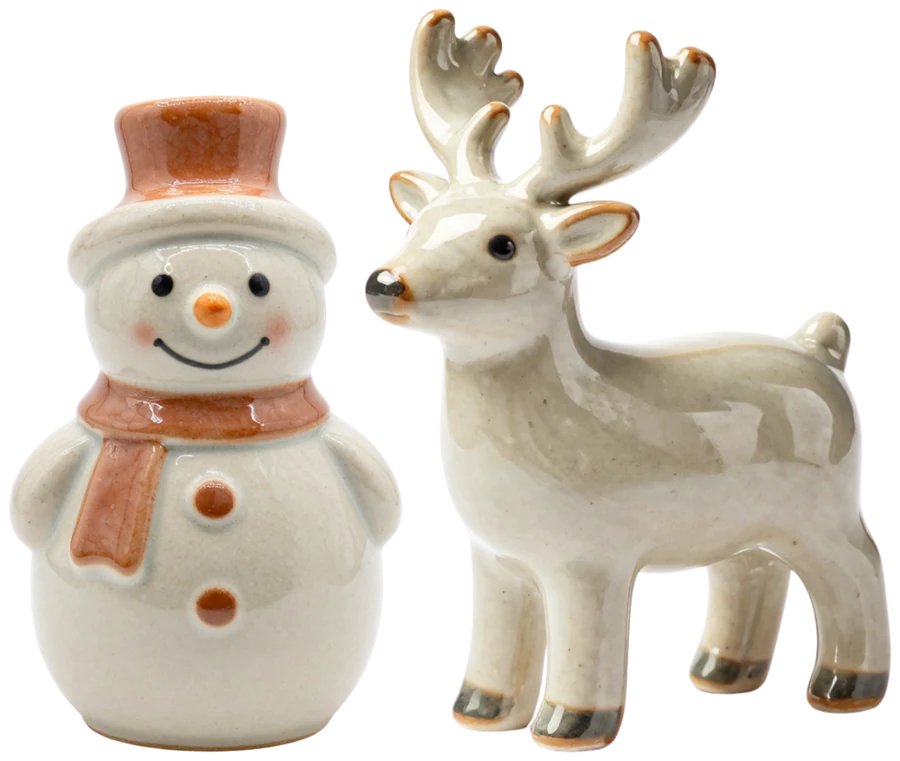
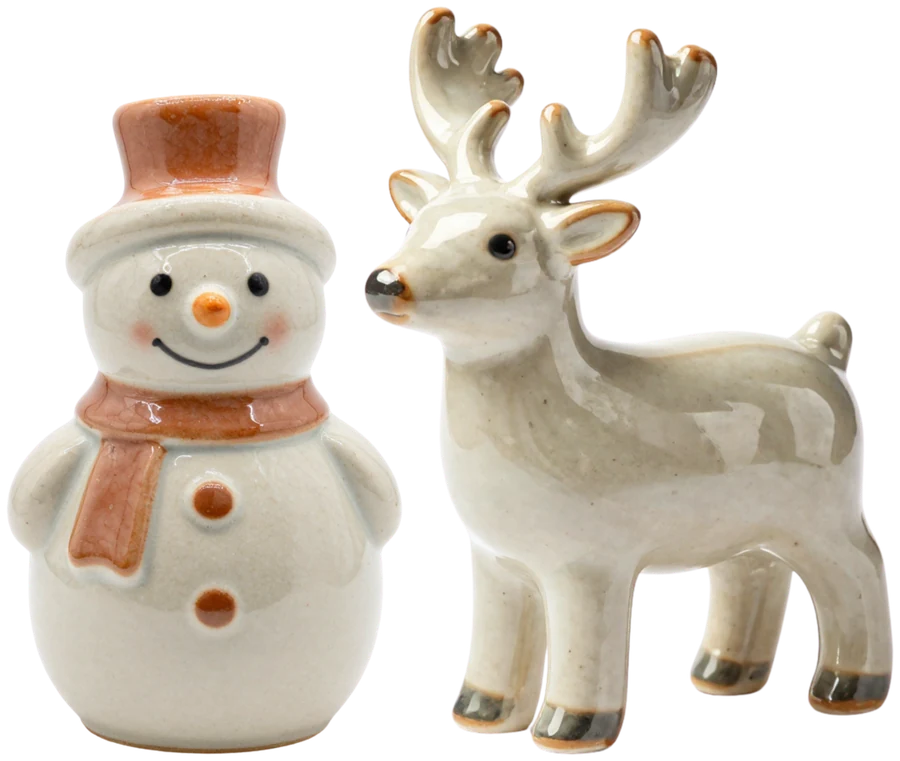
Tarjeta del taller unificada, negro translucido con borde dorado y nueva foto
Claude-Session: https://claude.ai/code/session_019ApYAaLMooJyqnQYuyETew

diff --git a/clases-de-ceramica-macul/index.html b/clases-de-ceramica-macul/index.html
@@ -528,16 +528,17 @@
     .foot-grid { grid-template-columns: 1fr; }
   }
   /* Próximo taller */
-  .event-card { display: grid; grid-template-columns: 5fr 6fr; background: #0F0C0A; color: var(--cream); border-radius: 6px; overflow: hidden; margin: 0 0 72px; box-shadow: 0 30px 60px -32px rgba(0,0,0,.75); }
-  .event-media { background: radial-gradient(circle at 12% 18%, rgba(255,255,255,.55) 0 1.5px, transparent 2.5px), radial-gradient(circle at 82% 12%, rgba(255,255,255,.4) 0 1px, transparent 2px), radial-gradient(circle at 70% 38%, rgba(255,255,255,.5) 0 1.5px, transparent 2.5px), radial-gradient(circle at 24% 62%, rgba(255,255,255,.35) 0 1px, transparent 2px), radial-gradient(circle at 90% 74%, rgba(255,255,255,.5) 0 1.5px, transparent 2.5px), radial-gradient(circle at 40% 90%, rgba(255,255,255,.4) 0 1px, transparent 2px), radial-gradient(circle at 8% 86%, rgba(255,255,255,.45) 0 1.5px, transparent 2.5px), radial-gradient(circle at 55% 8%, rgba(255,255,255,.35) 0 1px, transparent 2px), radial-gradient(ellipse 60% 55% at 50% 52%, rgba(255,244,226,.20) 0%, rgba(255,244,226,.05) 55%, transparent 80%), #15100D; display: flex; align-items: center; justify-content: center; padding: 34px; }
-  .event-media img { width: 100%; max-width: 400px; height: auto; display: block; filter: drop-shadow(0 20px 24px rgba(0,0,0,.6)); }
-  .event-body { padding: 46px 48px; display: flex; flex-direction: column; align-items: flex-start; background: radial-gradient(circle at 88% 18%, rgba(255,255,255,.55) 0 1.5px, transparent 2.5px), radial-gradient(circle at 82% 88%, rgba(255,255,255,.4) 0 1px, transparent 2px), radial-gradient(circle at 70% 38%, rgba(255,255,255,.5) 0 1.5px, transparent 2.5px), radial-gradient(circle at 60% 62%, rgba(255,255,255,.35) 0 1px, transparent 2px), radial-gradient(circle at 90% 74%, rgba(255,255,255,.5) 0 1.5px, transparent 2.5px), radial-gradient(circle at 40% 90%, rgba(255,255,255,.4) 0 1px, transparent 2px), radial-gradient(circle at 8% 86%, rgba(255,255,255,.45) 0 1.5px, transparent 2.5px), radial-gradient(circle at 55% 8%, rgba(255,255,255,.35) 0 1px, transparent 2px), #0F0C0A; }
-  .event-tag { display: inline-flex; align-items: center; gap: 8px; background: #9B2D20; color: #fff; font-size: .7rem; letter-spacing: .2em; text-transform: uppercase; padding: 7px 14px; border-radius: 2px; margin-bottom: 20px; }
-  .event-tag::before { content: '\2726'; color: #E9D3A0; font-size: .8rem; letter-spacing: 0; }
+  .event-card { display: grid; grid-template-columns: 5fr 6fr; align-items: center; position: relative; background: linear-gradient(135deg, rgba(14,11,9,.94), rgba(22,17,13,.90)); color: var(--cream); border-radius: 8px; margin: 0 0 72px; padding: 14px 0; border: 1px solid #B8924F; box-shadow: 0 0 0 5px rgba(184,146,79,.10), 0 30px 60px -32px rgba(0,0,0,.8); }
+  .event-card::before { content: ''; position: absolute; inset: 7px; border: 1px solid rgba(184,146,79,.35); border-radius: 4px; pointer-events: none; }
+  .event-media { display: flex; align-items: center; justify-content: center; padding: 28px 20px 28px 40px; }
+  .event-media img { width: 100%; max-width: 380px; height: auto; display: block; filter: drop-shadow(0 18px 20px rgba(0,0,0,.55)); }
+  .event-body { padding: 36px 52px 36px 20px; display: flex; flex-direction: column; align-items: flex-start; }
+  .event-tag { display: inline-flex; align-items: center; gap: 8px; color: #E3C58A; border: 1px solid rgba(184,146,79,.7); background: rgba(184,146,79,.08); font-size: .7rem; letter-spacing: .2em; text-transform: uppercase; padding: 7px 14px; border-radius: 2px; margin-bottom: 20px; }
+  .event-tag::before { content: '\2726'; font-size: .8rem; letter-spacing: 0; }
   .event-body h3 { font-size: clamp(1.5rem, 2.6vw, 2.1rem); margin: 0 0 12px; color: #fff; }
   .event-body p { margin: 0 0 20px; color: rgba(255,255,255,.72); }
-  .event-meta { list-style: none; padding: 0; margin: 0 0 26px; width: 100%; border-top: 1px solid rgba(255,255,255,.14); }
-  .event-meta li { display: flex; justify-content: space-between; gap: 16px; padding: 11px 0; border-bottom: 1px solid rgba(255,255,255,.14); font-size: .95rem; }
+  .event-meta { list-style: none; padding: 0; margin: 0 0 26px; width: 100%; border-top: 1px solid rgba(184,146,79,.3); }
+  .event-meta li { display: flex; justify-content: space-between; gap: 16px; padding: 11px 0; border-bottom: 1px solid rgba(184,146,79,.3); font-size: .95rem; }
   .event-meta span { color: rgba(255,255,255,.55); }
   .event-meta strong { font-weight: 500; text-align: right; color: #fff; }
   .event-meta .price { font-family: 'Fraunces', serif; font-size: 1.3rem; color: #E3C58A; }
@@ -547,9 +548,9 @@
   .hero-event:hover { color: var(--cream); }
   @media (max-width: 820px) {
     .event-card { grid-template-columns: 1fr; margin-bottom: 52px; }
-    .event-media { padding: 22px; }
+    .event-media { padding: 26px 24px 0; }
     .event-media img { max-width: 300px; }
-    .event-body { padding: 30px 24px 34px; }
+    .event-body { padding: 22px 26px 34px; }
   }
 </style>
 <style>

diff --git a/index.html b/index.html
@@ -536,16 +536,17 @@
     .foot-grid { grid-template-columns: 1fr; }
   }
   /* Próximo taller */
-  .event-card { display: grid; grid-template-columns: 5fr 6fr; background: #0F0C0A; color: var(--cream); border-radius: 6px; overflow: hidden; margin: 0 0 72px; box-shadow: 0 30px 60px -32px rgba(0,0,0,.75); }
-  .event-media { background: radial-gradient(circle at 12% 18%, rgba(255,255,255,.55) 0 1.5px, transparent 2.5px), radial-gradient(circle at 82% 12%, rgba(255,255,255,.4) 0 1px, transparent 2px), radial-gradient(circle at 70% 38%, rgba(255,255,255,.5) 0 1.5px, transparent 2.5px), radial-gradient(circle at 24% 62%, rgba(255,255,255,.35) 0 1px, transparent 2px), radial-gradient(circle at 90% 74%, rgba(255,255,255,.5) 0 1.5px, transparent 2.5px), radial-gradient(circle at 40% 90%, rgba(255,255,255,.4) 0 1px, transparent 2px), radial-gradient(circle at 8% 86%, rgba(255,255,255,.45) 0 1.5px, transparent 2.5px), radial-gradient(circle at 55% 8%, rgba(255,255,255,.35) 0 1px, transparent 2px), radial-gradient(ellipse 60% 55% at 50% 52%, rgba(255,244,226,.20) 0%, rgba(255,244,226,.05) 55%, transparent 80%), #15100D; display: flex; align-items: center; justify-content: center; padding: 34px; }
-  .event-media img { width: 100%; max-width: 400px; height: auto; display: block; filter: drop-shadow(0 20px 24px rgba(0,0,0,.6)); }
-  .event-body { padding: 46px 48px; display: flex; flex-direction: column; align-items: flex-start; background: radial-gradient(circle at 88% 18%, rgba(255,255,255,.55) 0 1.5px, transparent 2.5px), radial-gradient(circle at 82% 88%, rgba(255,255,255,.4) 0 1px, transparent 2px), radial-gradient(circle at 70% 38%, rgba(255,255,255,.5) 0 1.5px, transparent 2.5px), radial-gradient(circle at 60% 62%, rgba(255,255,255,.35) 0 1px, transparent 2px), radial-gradient(circle at 90% 74%, rgba(255,255,255,.5) 0 1.5px, transparent 2.5px), radial-gradient(circle at 40% 90%, rgba(255,255,255,.4) 0 1px, transparent 2px), radial-gradient(circle at 8% 86%, rgba(255,255,255,.45) 0 1.5px, transparent 2.5px), radial-gradient(circle at 55% 8%, rgba(255,255,255,.35) 0 1px, transparent 2px), #0F0C0A; }
-  .event-tag { display: inline-flex; align-items: center; gap: 8px; background: #9B2D20; color: #fff; font-size: .7rem; letter-spacing: .2em; text-transform: uppercase; padding: 7px 14px; border-radius: 2px; margin-bottom: 20px; }
-  .event-tag::before { content: '\2726'; color: #E9D3A0; font-size: .8rem; letter-spacing: 0; }
+  .event-card { display: grid; grid-template-columns: 5fr 6fr; align-items: center; position: relative; background: linear-gradient(135deg, rgba(14,11,9,.94), rgba(22,17,13,.90)); color: var(--cream); border-radius: 8px; margin: 0 0 72px; padding: 14px 0; border: 1px solid #B8924F; box-shadow: 0 0 0 5px rgba(184,146,79,.10), 0 30px 60px -32px rgba(0,0,0,.8); }
+  .event-card::before { content: ''; position: absolute; inset: 7px; border: 1px solid rgba(184,146,79,.35); border-radius: 4px; pointer-events: none; }
+  .event-media { display: flex; align-items: center; justify-content: center; padding: 28px 20px 28px 40px; }
+  .event-media img { width: 100%; max-width: 380px; height: auto; display: block; filter: drop-shadow(0 18px 20px rgba(0,0,0,.55)); }
+  .event-body { padding: 36px 52px 36px 20px; display: flex; flex-direction: column; align-items: flex-start; }
+  .event-tag { display: inline-flex; align-items: center; gap: 8px; color: #E3C58A; border: 1px solid rgba(184,146,79,.7); background: rgba(184,146,79,.08); font-size: .7rem; letter-spacing: .2em; text-transform: uppercase; padding: 7px 14px; border-radius: 2px; margin-bottom: 20px; }
+  .event-tag::before { content: '\2726'; font-size: .8rem; letter-spacing: 0; }
   .event-body h3 { font-size: clamp(1.5rem, 2.6vw, 2.1rem); margin: 0 0 12px; color: #fff; }
   .event-body p { margin: 0 0 20px; color: rgba(255,255,255,.72); }
-  .event-meta { list-style: none; padding: 0; margin: 0 0 26px; width: 100%; border-top: 1px solid rgba(255,255,255,.14); }
-  .event-meta li { display: flex; justify-content: space-between; gap: 16px; padding: 11px 0; border-bottom: 1px solid rgba(255,255,255,.14); font-size: .95rem; }
+  .event-meta { list-style: none; padding: 0; margin: 0 0 26px; width: 100%; border-top: 1px solid rgba(184,146,79,.3); }
+  .event-meta li { display: flex; justify-content: space-between; gap: 16px; padding: 11px 0; border-bottom: 1px solid rgba(184,146,79,.3); font-size: .95rem; }
   .event-meta span { color: rgba(255,255,255,.55); }
   .event-meta strong { font-weight: 500; text-align: right; color: #fff; }
   .event-meta .price { font-family: 'Fraunces', serif; font-size: 1.3rem; color: #E3C58A; }
@@ -555,9 +556,9 @@
   .hero-event:hover { color: var(--cream); }
   @media (max-width: 820px) {
     .event-card { grid-template-columns: 1fr; margin-bottom: 52px; }
-    .event-media { padding: 22px; }
+    .event-media { padding: 26px 24px 0; }
     .event-media img { max-width: 300px; }
-    .event-body { padding: 30px 24px 34px; }
+    .event-body { padding: 22px 26px 34px; }
   }
 </style>
 </head>

diff --git a/piezas-de-ceramica-gres/index.html b/piezas-de-ceramica-gres/index.html
@@ -528,16 +528,17 @@
     .foot-grid { grid-template-columns: 1fr; }
   }
   /* Próximo taller */
-  .event-card { display: grid; grid-template-columns: 5fr 6fr; background: #0F0C0A; color: var(--cream); border-radius: 6px; overflow: hidden; margin: 0 0 72px; box-shadow: 0 30px 60px -32px rgba(0,0,0,.75); }
-  .event-media { background: radial-gradient(circle at 12% 18%, rgba(255,255,255,.55) 0 1.5px, transparent 2.5px), radial-gradient(circle at 82% 12%, rgba(255,255,255,.4) 0 1px, transparent 2px), radial-gradient(circle at 70% 38%, rgba(255,255,255,.5) 0 1.5px, transparent 2.5px), radial-gradient(circle at 24% 62%, rgba(255,255,255,.35) 0 1px, transparent 2px), radial-gradient(circle at 90% 74%, rgba(255,255,255,.5) 0 1.5px, transparent 2.5px), radial-gradient(circle at 40% 90%, rgba(255,255,255,.4) 0 1px, transparent 2px), radial-gradient(circle at 8% 86%, rgba(255,255,255,.45) 0 1.5px, transparent 2.5px), radial-gradient(circle at 55% 8%, rgba(255,255,255,.35) 0 1px, transparent 2px), radial-gradient(ellipse 60% 55% at 50% 52%, rgba(255,244,226,.20) 0%, rgba(255,244,226,.05) 55%, transparent 80%), #15100D; display: flex; align-items: center; justify-content: center; padding: 34px; }
-  .event-media img { width: 100%; max-width: 400px; height: auto; display: block; filter: drop-shadow(0 20px 24px rgba(0,0,0,.6)); }
-  .event-body { padding: 46px 48px; display: flex; flex-direction: column; align-items: flex-start; background: radial-gradient(circle at 88% 18%, rgba(255,255,255,.55) 0 1.5px, transparent 2.5px), radial-gradient(circle at 82% 88%, rgba(255,255,255,.4) 0 1px, transparent 2px), radial-gradient(circle at 70% 38%, rgba(255,255,255,.5) 0 1.5px, transparent 2.5px), radial-gradient(circle at 60% 62%, rgba(255,255,255,.35) 0 1px, transparent 2px), radial-gradient(circle at 90% 74%, rgba(255,255,255,.5) 0 1.5px, transparent 2.5px), radial-gradient(circle at 40% 90%, rgba(255,255,255,.4) 0 1px, transparent 2px), radial-gradient(circle at 8% 86%, rgba(255,255,255,.45) 0 1.5px, transparent 2.5px), radial-gradient(circle at 55% 8%, rgba(255,255,255,.35) 0 1px, transparent 2px), #0F0C0A; }
-  .event-tag { display: inline-flex; align-items: center; gap: 8px; background: #9B2D20; color: #fff; font-size: .7rem; letter-spacing: .2em; text-transform: uppercase; padding: 7px 14px; border-radius: 2px; margin-bottom: 20px; }
-  .event-tag::before { content: '\2726'; color: #E9D3A0; font-size: .8rem; letter-spacing: 0; }
+  .event-card { display: grid; grid-template-columns: 5fr 6fr; align-items: center; position: relative; background: linear-gradient(135deg, rgba(14,11,9,.94), rgba(22,17,13,.90)); color: var(--cream); border-radius: 8px; margin: 0 0 72px; padding: 14px 0; border: 1px solid #B8924F; box-shadow: 0 0 0 5px rgba(184,146,79,.10), 0 30px 60px -32px rgba(0,0,0,.8); }
+  .event-card::before { content: ''; position: absolute; inset: 7px; border: 1px solid rgba(184,146,79,.35); border-radius: 4px; pointer-events: none; }
+  .event-media { display: flex; align-items: center; justify-content: center; padding: 28px 20px 28px 40px; }
+  .event-media img { width: 100%; max-width: 380px; height: auto; display: block; filter: drop-shadow(0 18px 20px rgba(0,0,0,.55)); }
+  .event-body { padding: 36px 52px 36px 20px; display: flex; flex-direction: column; align-items: flex-start; }
+  .event-tag { display: inline-flex; align-items: center; gap: 8px; color: #E3C58A; border: 1px solid rgba(184,146,79,.7); background: rgba(184,146,79,.08); font-size: .7rem; letter-spacing: .2em; text-transform: uppercase; padding: 7px 14px; border-radius: 2px; margin-bottom: 20px; }
+  .event-tag::before { content: '\2726'; font-size: .8rem; letter-spacing: 0; }
   .event-body h3 { font-size: clamp(1.5rem, 2.6vw, 2.1rem); margin: 0 0 12px; color: #fff; }
   .event-body p { margin: 0 0 20px; color: rgba(255,255,255,.72); }
-  .event-meta { list-style: none; padding: 0; margin: 0 0 26px; width: 100%; border-top: 1px solid rgba(255,255,255,.14); }
-  .event-meta li { display: flex; justify-content: space-between; gap: 16px; padding: 11px 0; border-bottom: 1px solid rgba(255,255,255,.14); font-size: .95rem; }
+  .event-meta { list-style: none; padding: 0; margin: 0 0 26px; width: 100%; border-top: 1px solid rgba(184,146,79,.3); }
+  .event-meta li { display: flex; justify-content: space-between; gap: 16px; padding: 11px 0; border-bottom: 1px solid rgba(184,146,79,.3); font-size: .95rem; }
   .event-meta span { color: rgba(255,255,255,.55); }
   .event-meta strong { font-weight: 500; text-align: right; color: #fff; }
   .event-meta .price { font-family: 'Fraunces', serif; font-size: 1.3rem; color: #E3C58A; }
@@ -547,9 +548,9 @@
   .hero-event:hover { color: var(--cream); }
   @media (max-width: 820px) {
     .event-card { grid-template-columns: 1fr; margin-bottom: 52px; }
-    .event-media { padding: 22px; }
+    .event-media { padding: 26px 24px 0; }
     .event-media img { max-width: 300px; }
-    .event-body { padding: 30px 24px 34px; }
+    .event-body { padding: 22px 26px 34px; }
   }
 </style>
 <style>

diff --git a/quema-de-ceramica-santiago/index.html b/quema-de-ceramica-santiago/index.html
@@ -528,16 +528,17 @@
     .foot-grid { grid-template-columns: 1fr; }
   }
   /* Próximo taller */
-  .event-card { display: grid; grid-template-columns: 5fr 6fr; background: #0F0C0A; color: var(--cream); border-radius: 6px; overflow: hidden; margin: 0 0 72px; box-shadow: 0 30px 60px -32px rgba(0,0,0,.75); }
-  .event-media { background: radial-gradient(circle at 12% 18%, rgba(255,255,255,.55) 0 1.5px, transparent 2.5px), radial-gradient(circle at 82% 12%, rgba(255,255,255,.4) 0 1px, transparent 2px), radial-gradient(circle at 70% 38%, rgba(255,255,255,.5) 0 1.5px, transparent 2.5px), radial-gradient(circle at 24% 62%, rgba(255,255,255,.35) 0 1px, transparent 2px), radial-gradient(circle at 90% 74%, rgba(255,255,255,.5) 0 1.5px, transparent 2.5px), radial-gradient(circle at 40% 90%, rgba(255,255,255,.4) 0 1px, transparent 2px), radial-gradient(circle at 8% 86%, rgba(255,255,255,.45) 0 1.5px, transparent 2.5px), radial-gradient(circle at 55% 8%, rgba(255,255,255,.35) 0 1px, transparent 2px), radial-gradient(ellipse 60% 55% at 50% 52%, rgba(255,244,226,.20) 0%, rgba(255,244,226,.05) 55%, transparent 80%), #15100D; display: flex; align-items: center; justify-content: center; padding: 34px; }
-  .event-media img { width: 100%; max-width: 400px; height: auto; display: block; filter: drop-shadow(0 20px 24px rgba(0,0,0,.6)); }
-  .event-body { padding: 46px 48px; display: flex; flex-direction: column; align-items: flex-start; background: radial-gradient(circle at 88% 18%, rgba(255,255,255,.55) 0 1.5px, transparent 2.5px), radial-gradient(circle at 82% 88%, rgba(255,255,255,.4) 0 1px, transparent 2px), radial-gradient(circle at 70% 38%, rgba(255,255,255,.5) 0 1.5px, transparent 2.5px), radial-gradient(circle at 60% 62%, rgba(255,255,255,.35) 0 1px, transparent 2px), radial-gradient(circle at 90% 74%, rgba(255,255,255,.5) 0 1.5px, transparent 2.5px), radial-gradient(circle at 40% 90%, rgba(255,255,255,.4) 0 1px, transparent 2px), radial-gradient(circle at 8% 86%, rgba(255,255,255,.45) 0 1.5px, transparent 2.5px), radial-gradient(circle at 55% 8%, rgba(255,255,255,.35) 0 1px, transparent 2px), #0F0C0A; }
-  .event-tag { display: inline-flex; align-items: center; gap: 8px; background: #9B2D20; color: #fff; font-size: .7rem; letter-spacing: .2em; text-transform: uppercase; padding: 7px 14px; border-radius: 2px; margin-bottom: 20px; }
-  .event-tag::before { content: '\2726'; color: #E9D3A0; font-size: .8rem; letter-spacing: 0; }
+  .event-card { display: grid; grid-template-columns: 5fr 6fr; align-items: center; position: relative; background: linear-gradient(135deg, rgba(14,11,9,.94), rgba(22,17,13,.90)); color: var(--cream); border-radius: 8px; margin: 0 0 72px; padding: 14px 0; border: 1px solid #B8924F; box-shadow: 0 0 0 5px rgba(184,146,79,.10), 0 30px 60px -32px rgba(0,0,0,.8); }
+  .event-card::before { content: ''; position: absolute; inset: 7px; border: 1px solid rgba(184,146,79,.35); border-radius: 4px; pointer-events: none; }
+  .event-media { display: flex; align-items: center; justify-content: center; padding: 28px 20px 28px 40px; }
+  .event-media img { width: 100%; max-width: 380px; height: auto; display: block; filter: drop-shadow(0 18px 20px rgba(0,0,0,.55)); }
+  .event-body { padding: 36px 52px 36px 20px; display: flex; flex-direction: column; align-items: flex-start; }
+  .event-tag { display: inline-flex; align-items: center; gap: 8px; color: #E3C58A; border: 1px solid rgba(184,146,79,.7); background: rgba(184,146,79,.08); font-size: .7rem; letter-spacing: .2em; text-transform: uppercase; padding: 7px 14px; border-radius: 2px; margin-bottom: 20px; }
+  .event-tag::before { content: '\2726'; font-size: .8rem; letter-spacing: 0; }
   .event-body h3 { font-size: clamp(1.5rem, 2.6vw, 2.1rem); margin: 0 0 12px; color: #fff; }
   .event-body p { margin: 0 0 20px; color: rgba(255,255,255,.72); }
-  .event-meta { list-style: none; padding: 0; margin: 0 0 26px; width: 100%; border-top: 1px solid rgba(255,255,255,.14); }
-  .event-meta li { display: flex; justify-content: space-between; gap: 16px; padding: 11px 0; border-bottom: 1px solid rgba(255,255,255,.14); font-size: .95rem; }
+  .event-meta { list-style: none; padding: 0; margin: 0 0 26px; width: 100%; border-top: 1px solid rgba(184,146,79,.3); }
+  .event-meta li { display: flex; justify-content: space-between; gap: 16px; padding: 11px 0; border-bottom: 1px solid rgba(184,146,79,.3); font-size: .95rem; }
   .event-meta span { color: rgba(255,255,255,.55); }
   .event-meta strong { font-weight: 500; text-align: right; color: #fff; }
   .event-meta .price { font-family: 'Fraunces', serif; font-size: 1.3rem; color: #E3C58A; }
@@ -547,9 +548,9 @@
   .hero-event:hover { color: var(--cream); }
   @media (max-width: 820px) {
     .event-card { grid-template-columns: 1fr; margin-bottom: 52px; }
-    .event-media { padding: 22px; }
+    .event-media { padding: 26px 24px 0; }
     .event-media img { max-width: 300px; }
-    .event-body { padding: 30px 24px 34px; }
+    .event-body { padding: 22px 26px 34px; }
   }
 </style>
 <style>
